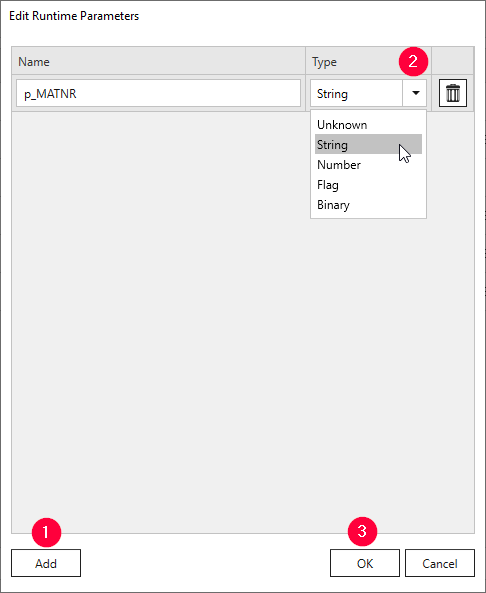
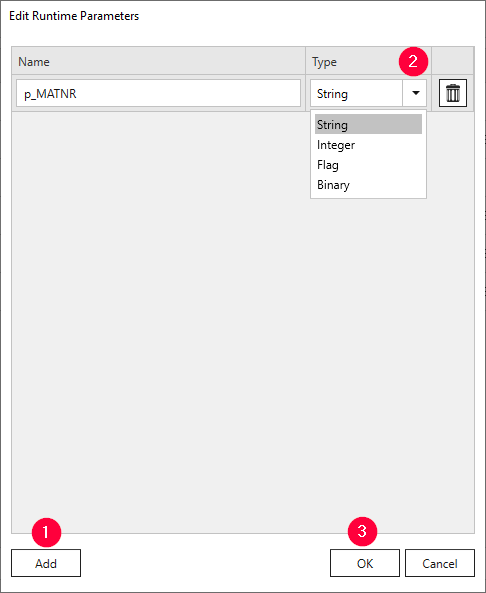
XIS: data to SAP with BAPI

Changed region(s): [[0.6481, 0.1821, 0.8951, 0.3642]]

diff --git a/_includes/_content/de/xis-specific/xtract-is-bapi/wie_man_mit_bapi_daten_in_sap_schreibt.md b/_includes/_content/de/xis-specific/xtract-is-bapi/wie_man_mit_bapi_daten_in_sap_schreibt.md
@@ -1,19 +1,20 @@
-Hier beschreiben wir ein kurzes Beispiel, das zeigt, wie man mit Hilfe eines SAP-Funktionsbausteins Daten in SAP schreibt. 
+Dieses Beispiel zeigt, wie man mit Hilfe eines SAP-Funktionsbausteins Daten in SAP schreibt. 
+
+
+### Voraussetzungen
 
 **SAP-Funktionsbaustein**
 
-In SAP gibt es den folgenden kundeneigenen Funktionsbaustein Z_ECS_PRODUCT_CREATE_MULTI. 
+Dieses Beispiel verwendet den kundeneigenen SAP Funktionsbaustein Z_ECS_PRODUCT_CREATE_MULTI. 
 Er hat einen Tabellenparameter *T_PRODUCTS*, der für die Eingabe verwendet werden kann. Die Tabelle hat folgenden Aufbau:
 
 ![ssis-write-sap-01](/img/content/ssis-write-sap-01.png){:class="img-responsive"}
 
 **Tabelle im SQL Server** 
 
-Im SQL Server habe ich die Tabelle SAP Products , die wir als Eingabetabelle verwenden werden. 
+Dieses Beispiel verwendet die SQL Server Tabelle *SAP Products*, die als Eingabetabelle verwenden wird. 
 
-<details>
-<summary>[SQL]</summary>
-{% highlight sql %}
+```
 CREATE TABLE [SAP Products] (
     [MANDT] nvarchar(3),
     [PRODUCTNR] nvarchar(18),
@@ -24,29 +25,21 @@ CREATE TABLE [SAP Products] (
     [ERDAT] nvarchar(8),
     [ERZET] nvarchar(6)
 )
-{% endhighlight %}
-</details>
+```
 
 Die Tabelle hat den folgenden Inhalt:
 
 ![ssis-write-sql-01](/img/content/ssis-write-sql-01.png){:class="img-responsive"}
 
-**SSIS** 
+### Workflow mit SSIS
 
-1.Die Quelle definieren. 
-
-2.Das Functionsmodul definieren. Den Input Type für die entsprechende Tabelle auf *Pipeline* setzen.
-
+1. Definieren Sie die SQL Server Tabelle *SAP Products* als Quelle. 
+2. Definieren Sie den Funktionsbaustein Z_ECS_PRODUCT_CREATE_MULTI in der Xtract BAPI Komponente. 
+Markieren Sie die Tabelle *T_PRODUCTS* für die Ausgabe, indem Sie die Checkbox in der Ausgabespalte anhaken.<br>
 ![ssis-write-xtractis-fuba-01](/img/content/ssis-write-xtractis-fuba-01.png){:class="img-responsive"}
-
-3.Die Komponenten miteinander verbinden. 
-
+3. Verbinden Sie die Komponenten Quelle und Xtract BAPI miteinander. <br>
 ![ssis-write-xtractis-fuba-02](/img/content/ssis-write-xtractis-fuba-02.png){:class="img-responsive"}
-
-4.Auf *Edit*  klicken, um die Spalten zu mappen. 
-
+4. Klicken Sie im Tab **Tables** der Xtract Komponente auf **[Edit]**, um die Spalten der Eingabetabelle zu mappen. <br>
 ![ssis-write-xtractis-fuba-03](/img/content/ssis-write-xtractis-fuba-03.png){:class="img-responsive"}
-
-5.Das SSIS-Packet ausführen. 
-
+5. Führen Sie das SSIS-Paket aus. <br>
 ![ssis-write-xtractis-fuba-04](/img/content/ssis-write-xtractis-fuba-04.png){:class="img-responsive"}

diff --git a/content/_de/xtract-for-alteryx/bapis-und-funktionsbausteine/eine-bapi-quelle-definieren.md b/content/_de/xtract-for-alteryx/bapis-und-funktionsbausteine/eine-bapi-quelle-definieren.md
@@ -22,30 +22,8 @@ old_url: /Xtract-Universal-DE/default.aspx?pageid=eine-bapi-quelle-definieren
 ![Look-Up-Function-Module](/img/content/xfa/Look-Up-Function-Module.png){:class="img-responsive"}
 3. Wählen Sie ein Element aus der Liste aus (6). 
 4. Klicken Sie auf **[OK]** (7), um die Auswahl zu bestätigen.
-
-![BAPI-Parameters](/img/content/xfa/BAPI-Parameters.png){:class="img-responsive"}
-
-
-### Import, Export, Changings und Tables definieren
-
-Das Fenster "Xtract BAPI" zeigt die Parameter des ausgewählten BAPI.<br>
+5. Das Fenster "XBAPI" zeigt die Parameter des ausgewählten BAPI.<br>
 Ein BAPI kann bis zu vier Paramtertypen haben: [Parametertypen](./parameter): Imports, Exports, Changings und Tables.
 
-{: .box-note }
-**Hinweis:** Sie können verschachtelte Parameter verwenden, z.B. Tabellen in Tabellen, Strukturen in Tabellen und Strukturen in Strukturen.<br>
-
-1. Geben Sie in **Imports** Eingabeparameter an, die an SAP gesendet werden, siehe [Import-Parameter](./parameter#import-parameter). <br>
-Sie können Skalarwerte (1) oder Strukturen (2) übergeben. Sie können außerdem dynamische Laufzeitparameter verwenden, siehe [Laufzeitparameter](./edit-runtime-parameters).<br>
-Parameter, die in SAP als Muss-Parameter ausgewiesen sind, sind mit einem roten * markiert.
-![Define-Bapi-Data-Source](/img/content/XU-BAPI-Parameters.png){:class="img-responsive"}
-2. Definieren Sie die Ausgabe von SAP-Werten in **Exports**, siehe [Export-Parameter](./parameter#export-parameter).<br>
-Aktivieren Sie die Checkbox neben den aufgelisteten Elementen, um sie der Ausgabe hinzuzufügen.<br>
-![BAPI export parameters](/img/content/Bapi-Exports-Edit.png){:class="img-responsive"}
-3. Optional: Falls verfügbar können Sie Ein- und Ausgabeparameter in **Changings** hinzufügen, siehe [Changings Parametrisierung](./parameter#changings-parameter).
-4. Fügen Sie in **Tables** Tabellen zur Ein-/Ausgabe hinzu, siehe [Tabellen Parametrisierung](./parameter#tables-parameter).<br>
-Prüfen Sie die Namen und Datentypen der Tabellenfelder, indem Sie auf das **[Brillensymbol]** unter **Type** klicken.
-Aktivieren Sie die Checkbox (2) neben den aufgelisteten Tabellen, um sie der Ausgabe hinzuzufügen.
-Bearbeiten Sie die Tabelle über das **[Stiftsymbol]** unter **Values** (3).
-![BAPI table](/img/content/Bapi-Table-Type.png){:class="img-responsive"}
-5. Bestätigen Sie Ihre Eingabe mit **[OK]**.
+![BAPI-Parameters](/img/content/xfa/BAPI-Parameters.png){:class="img-responsive"}
 

diff --git a/_includes/_content/en/xis-specific/bapi/how-to-post-data.md b/_includes/_content/en/xis-specific/bapi/how-to-post-data.md
@@ -1,14 +1,18 @@
-Here is a short example that shows, how to use an SAP function module to post data to SAP. 
+This example that shows how to use an SAP function module to post data to SAP. 
+
+### Prerequisites
 
 **SAP function module**<br>
-In SAP we have the following custom function module Z_ECS_PRODUCT_CREATE_MULTI. 
-It has a table parameter *T_PRODUCTS* that can be used for input. The table has the following structure:
+
+This example uses the SAP custom function module Z_ECS_PRODUCT_CREATE_MULTI.
+It has a table parameter *T_PRODUCTS* that can be used for input. 
+The table has the following structure:
 
 ![ssis-write-sap-01](/img/content/ssis-write-sap-01.png){:class="img-responsive" }
 
 **Table in SQL Server**
 
-In SQL Server I have the table *SAP Products* that would be used as input for the function module. 
+This example uses the SQL Server table *SAP Products*, that is used as input for the function module.
 
 ```
 CREATE TABLE [SAP Products] (
@@ -23,27 +27,19 @@ CREATE TABLE [SAP Products] (
 )
 ```
 
-The table has the following content
+The table has the following content:
 
 ![ssis-write-sql-01](/img/content/ssis-write-sql-01.png){:class="img-responsive" }
 
-**SSIS**
-
-1.Define the Source
-
-2.Define the function module. Set the *Input Type* for the Table to *Pipeline*.
+### Workflow with SSIS
 
 
+1. Define the SQL Server Table *SAP Products* as the Source.
+2. Define the function module Z_ECS_PRODUCT_CREATE_MULTI in the Xtract BAPI component. Activate the checkbox of *T_PRODUCTS* to mark it for output. <br>
 ![ssis-write-xtractis-fuba-01](/img/content/ssis-write-xtractis-fuba-01.png){:class="img-responsive" }
-
-3.Connect the components
-
+3. Connect the Source component with the Xtract component. <br>
 ![ssis-write-xtractis-fuba-02](/img/content/ssis-write-xtractis-fuba-02.png){:class="img-responsive" }
-
-4.Click on Edit to map the columns. 
-
+4. In the **Tables** tab of the Xtract component, click **[Edit]** to map the columns of the inout table. <br>
 ![ssis-write-xtractis-fuba-03](/img/content/ssis-write-xtractis-fuba-03.png){:class="img-responsive" }
-
-5.Click on OK and run the SSIS Package 
-
+5. Click **[OK]** and run the SSIS Package.<br>
 ![ssis-write-xtractis-fuba-04](/img/content/ssis-write-xtractis-fuba-04.png){:class="img-responsive" }

diff --git a/content/_en/xtract-for-alteryx/bapi/bapi-define.md b/content/_en/xtract-for-alteryx/bapi/bapi-define.md
@@ -21,30 +21,7 @@ lang: en_GB
 ![Look-Up-Function-Module](/img/content/xfa/Look-Up-Function-Module.png){:class="img-responsive"}
 3. Select an item from the list (6). 
 4. Click **[OK]** (7) to confirm.
+5. The “BAPI” window displays the parameters of the selected BAPI.
+BAPI can have up to four parameter types: Imports, Exports, Changings and Tables.
 
 ![BAPI-Parameters](/img/content/xfa/BAPI-Parameters.png){:class="img-responsive"}
-
-
-### Define Import, Export, Changings and Tables
-
-In the main BAPI Component window all parameters of the selected BAPI are displayed.
-BAPIs can have up to four parameter types: Imports, Exports, Changings and Tables.
-
-{: .box-note }
-**Note:** You can use of nested parameters, e.g., tables in tables, structures in tables and structures in structures.<br>
-
-1. Add input parameters to send to SAP in **Imports**, see [Import Parameters](./parameters#import-parameters). <br>
-You can enter scalar values (1) or structures (2). You can also use dynamic runtime parameters, see [Runtime Parameters](./edit-runtime-parameters).<br>
-Parameters defined as mandatory in SAP (transaction SE37) are marked with a red *. <br>
-![Define-Bapi-Data-Source](/img/content/XU-BAPI-Parameters.png){:class="img-responsive"}
-2. Define the output to receive from SAP in **Eports**, see [Export Parameters](./parameters#export-parameters). <br>
-Select output by activating the checkbox next to the items.<br>
-![BAPI export parameters](/img/content/Bapi-Exports-Edit.png){:class="img-responsive"}
-3. Optional: If available you can define input and output parameters in **Changings**, see [Changings Parameters](./parameters#changings-parameters).
-4. Add tables to the output or add table parameters as input in **Tables**, see [Table Parameters](./parameters#table-parameters). <br>
-Check the names and data types of the table's fields by clicking the **[glasses symbol]** under **Type** (1).
-Select output data by activating the checkbox next to the items (2).
-Edit tables via the **[pen icon]** under **Values** (3).
-![BAPI table](/img/content/Bapi-Table-Type.png){:class="img-responsive"}
-5. Click **[OK]** to confirm.
-

diff --git a/content/_de/xtract-for-alteryx/bapis-und-funktionsbausteine/ausfuehrung.md b/content/_de/xtract-for-alteryx/bapis-und-funktionsbausteine/ausfuehrung.md
@@ -11,4 +11,25 @@ lang: de_DE
 old_url: /Xtract-Universal-DE/default.aspx?pageid=ausfuehrung
 ---
 
-Dieser Abschnitt ist in Bearbeitung, Informationen erhalten Sie bis dahin auf der englischen Seite.
+Das folgende Beispiel zeigt eine erfolgreiche BAPI-Extraktion einer Bestellanforderung.
+
+### Eine Extraktion ausführen
+1. Definieren Sie in Ihrem Alteryx-Workflow eine Tabelle (z.B. *PRITEM*) für die Eingabe. Stellen Sie sicher, dass der Name der Tabelle identisch mit der korrespondierenden SAP Tabelle ist.
+2. Ziehen Sie die BAPI-Komponente in Ihren Workflow und prüfen Sie die SAP-Verbindung.
+3. Verbinden Sie Ihre Eingabetabelle mit der BAPI-Komponente (3).
+4. Wählen Sie die BAPI-Komponente an und klicken Sie auf **[Edit]**. Das Fenster "Xtract BAPI" öffnet sich.
+5. Führen Sie eine [BAPI Suche](./eine-bapi-quelle-definieren#eine-bapi-extraktion-finden) (4) durch und suchen Sie nach "BAPI_REQUISITION_CREATE".
+6. Navigieren Sie im Fenster "Xtract BAPI" zum Tab *Tables* (5).
+7. Navigieren Sie zum erforderlichen Eingabefeld **REQUISITION_ITEMS** und wählen Sie die Tabelle *PRITEM* aus der Drop-Down-Liste aus (6).
+8. Aktivieren Sie die Ausgabe-Checkbox des Felds **Return** (7). Im "Configuration" Fenster des Alteryx-Designers prüfen Sie **Output Mappings > Output Tables**.
+Das gewählte Ausgabefeld **RETURN** und die Anzahl der Ausgabetabellen (hier eine) wird angezeigt.
+9. Führen Sie Ihren Alteryx Workflow aus.
+
+![Bapi-Extraction](/img/content/xfa/bapi_example.png){:class="img-responsive"} 
+
+
+### Die Extraction Ergebnisse prüfen
+
+Navigieren Sie zum "Result"-Fenster im Alteryx-Designer und prüfen Sie die Ausgabe:
+
+![Bapi-Output](/img/content/xfa/bapi_example_result.png){:class="img-responsive"} 

diff --git a/_includes/_content/de/bapi/edit-runtime-parameters.md b/_includes/_content/de/bapi/edit-runtime-parameters.md
@@ -11,7 +11,6 @@ Das Fenster "Edit Runtime Parameters" wird geöffnet.<br>
 Dies ermöglicht ein dynamisches Setzen von Selektionsfiltern zur Laufzeit.<br>
 **Tipp:** Parameter0..-n sind die Standardnamen für die hinzugefügten Parameter. Sie können einen beliebigen Namen eingeben (siehe vorliegendes Beispiel: *"p_MATNR"*).
 3. Klicken Sie auf das Drop-Down-Menü (2) und weisen Sie einen der folgenden Datentypen einem Parameter zu. Die Datentypen können mit den SAP-Datentypen übereinstimmen. 
-- Unknown: Dieser Datentyp kann für spezielle oder unbekannte Datentypen bei SAP-Selektionsfeldern verwendet werden. 
 - String: Dieser Datentyp kann für jeden Typ der SAP-Selektionsfelder verwendet werden.
 - Number: Dieser Datentyp kann für numerische SAP-Selektionsfelder verwendet werden.
 - Flag: Dieser Datentyp kann für SAP-Selektionsfelder verwendet werden, die einen 'X'&nbsp;(true) oder eine leere Eingabe ''&nbsp;(false) als Eingabewert benötigen. <br>

diff --git a/_includes/_content/en/bapis-and-function-modules/edit-runtime-parameters.md b/_includes/_content/en/bapis-and-function-modules/edit-runtime-parameters.md
@@ -11,7 +11,6 @@ The window "Edit Runtime Parameters" opens.<br>
 This allows you to dynamically set filters at runtime.<br>
 **Tip:** Parameter0..-n is the default naming for the added parameter. You can enter a name of your choice (see the given example: *"p_MATNR"*).
 3. Open the drop-down menu (2) and assign one of the following data types to the parameter.
-- Unknown: This data type can be used when the corresponding data type of the SAP field is special or unknown.
 - String: This data type can be used for any type of SAP selection field.
 - Number: This data type can be used for numeric SAP selection fields.
 - Flag: This data type can only be used for SAP selection fields, which require an 'X'&nbsp;(true) or a blank ''&nbsp;(false) as input value.<br>
